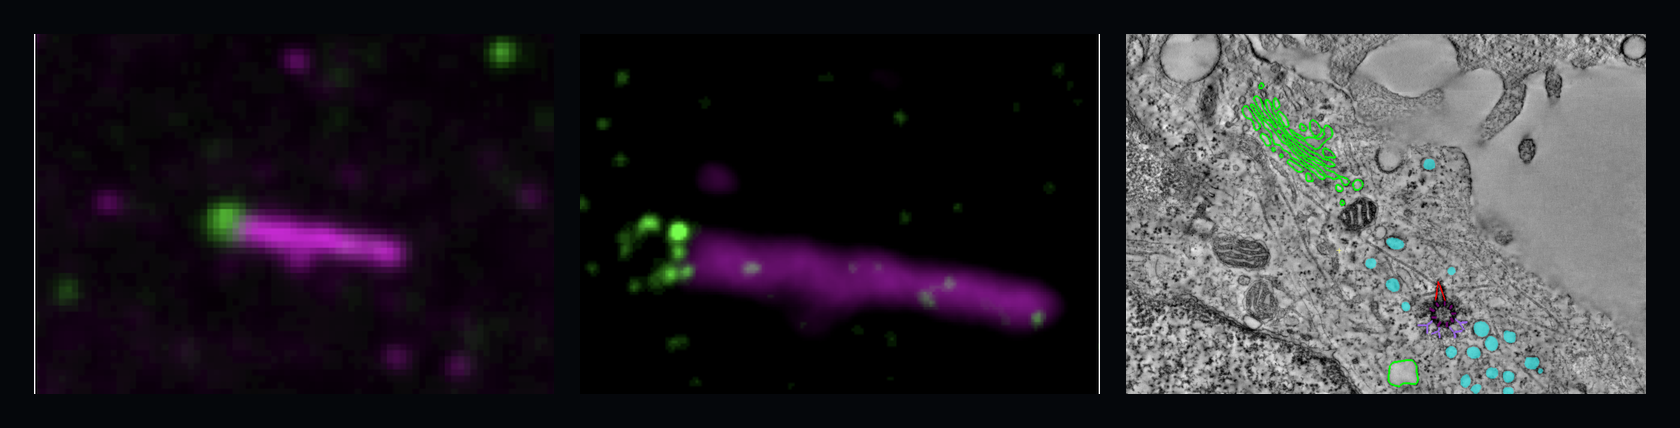
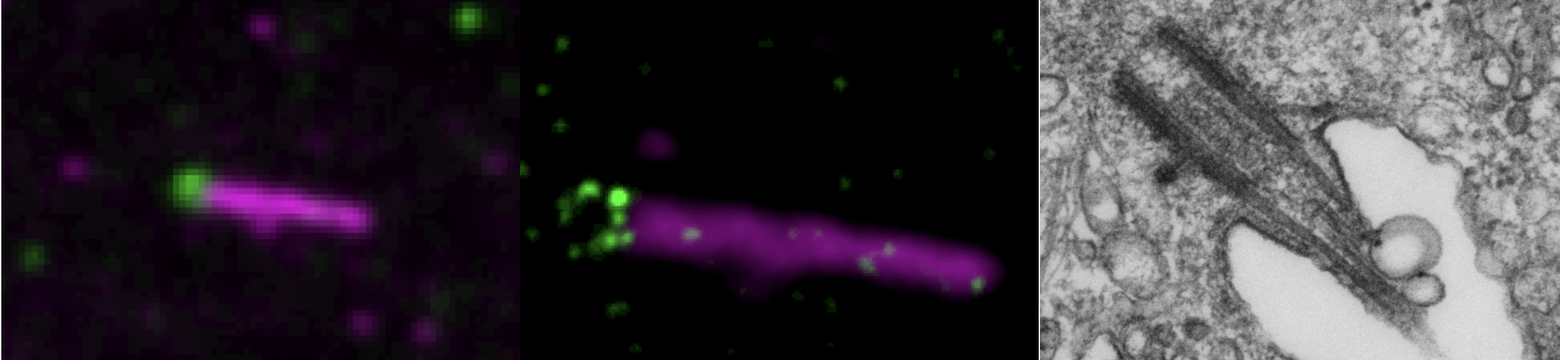
Update multiscale imaging panel

diff --git a/tests/portfolio.spec.js b/tests/portfolio.spec.js
@@ -125,7 +125,7 @@ test.describe("portfolio page", () => {
     await expect(page.locator("#images")).toContainText("SIR-tubulin");
     await expect(page.locator("#images")).toContainText("3D-TEM movie");
     await expect(page.locator("#images")).toContainText("Dync2h1 null movie");
-    await expect(page.locator("#images")).toContainText("WDR35 multiscale panel");
+    await expect(page.locator("#images")).toContainText("Multiscale imaging");
     await expect(page.locator("#images")).toContainText("WDR35-EmGFP");
     await expect(page.locator("#images")).toContainText("TEM 300 nm section");
     await expect(page.locator("#images")).toContainText("IFT88 collage");
@@ -138,7 +138,7 @@ test.describe("portfolio page", () => {
     );
 
     expect(imageTitles[2]).toBe("Wdr35 null MEF");
-    expect(imageTitles[4]).toBe("WDR35 multiscale panel");
+    expect(imageTitles[4]).toBe("Multiscale imaging");
     expect(imageTitles[5]).toBe("IFT88 collage");
   });
 

diff --git a/index.html b/index.html
@@ -1681,7 +1681,7 @@
           <figure class="media-frame">
             <img src="assets/media/wdr35-multiscale-panel.png" alt="Three-panel imaging figure showing confocal, single-color STED, and TEM views of the WDR35 ciliary transport context without in-image text labels.">
             <figcaption class="media-caption">
-              <h3>WDR35 multiscale panel</h3>
+              <h3>Multiscale imaging</h3>
               <p>Three aligned views are shown here as confocal imaging, single-color STED of WDR35, and a TEM 300 nm section, with the channel labels and scale context moved below the figure for cleaner presentation.</p>
               <div class="media-meta" aria-label="Channel labels">
                 <span class="channel-magenta">ARL13B</span>

diff --git a/scripts/render_wdr35_multiscale_panel.py b/scripts/render_wdr35_multiscale_panel.py
@@ -7,7 +7,7 @@ ROOT = Path(__file__).resolve().parents[1]
 OUTPUT = ROOT / "assets" / "media" / "wdr35-multiscale-panel.png"
 
 CONFOCAL_SOURCE = Path("/Users/toobaquidwai/Downloads/STED_WDR35.png")
-TEM_SOURCE = Path("/Users/toobaquidwai/Desktop/linkedln/linkedln/Z305_Movie6_figure6-figure supplement2.png")
+TEM_SOURCE = Path("/Users/toobaquidwai/Desktop/your-figure/EM.png")
 
 
 def fit_panel(image: Image.Image, width: int, height: int) -> Image.Image:
@@ -17,15 +17,15 @@ def fit_panel(image: Image.Image, width: int, height: int) -> Image.Image:
 def main() -> None:
     panel_width = 520
     panel_height = 360
-    gap = 26
-    outer = 34
+    gap = 0
+    outer = 0
 
     confocal_source = Image.open(CONFOCAL_SOURCE).convert("RGB")
     tem_source = Image.open(TEM_SOURCE).convert("RGB")
 
     confocal = confocal_source.crop((24, 92, 438, 430))
     sted = confocal_source.crop((460, 92, 874, 430))
-    tem = tem_source.crop((140, 90, 1640, 1185))
+    tem = tem_source.crop((0, 0, 714, 744))
 
     confocal = fit_panel(confocal, panel_width, panel_height)
     sted = fit_panel(sted, panel_width, panel_height)
@@ -38,8 +38,8 @@ def main() -> None:
     x = outer
     y = outer
     for panel in (confocal, sted, tem):
-      canvas.paste(panel, (x, y))
-      x += panel_width + gap
+        canvas.paste(panel, (x, y))
+        x += panel_width + gap
 
     canvas.save(OUTPUT, quality=95)
 
